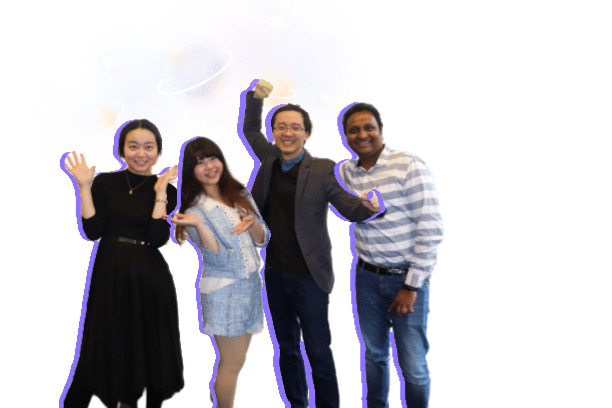
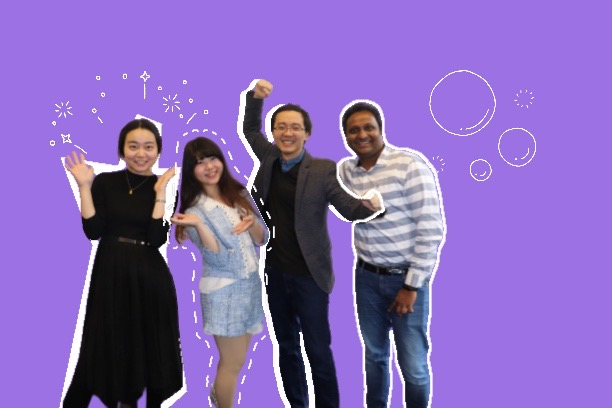
Update about page and style

diff --git a/assets/styles.css b/assets/styles.css
@@ -78,6 +78,8 @@ body {
   margin-top: 64px;
 }
 
+.margin-small-top {   margin-top: 22px; }
+
 .main-home {
   height: 100vh;
   display: flex;
@@ -324,7 +326,7 @@ p.kit span {
 }
 
 .section-title h3 {
-  color: #2f8dfa;
+  color: #9b71e3;
   font-size: 16px;
   text-transform: uppercase;
 }
@@ -338,7 +340,7 @@ p.kit span {
 }
 
 .section-title h5 span {
-  color: #2f8dfa;
+  color: #9b71e3;
   font-size: 28px;
   margin-right: 8px;
 }
@@ -1372,7 +1374,7 @@ select {
 
   .column.large-uncentered.opposite,
   .columns.large-uncentered.opposite {
-    float: right;
+    float: right
   }
 
   .large-push-0 {

diff --git a/about.html b/about.html
@@ -1,4 +1,4 @@
-P
+
 <html>
   <head>
     <meta charset="utf-8" />
@@ -31,7 +31,7 @@ P
         <div class="row">
           <div class="columns small-12 about-wrap">
             <div class="small-12 large-6 columns">
-              <img src="./assets/images/about01.png" alt="" />
+              <img src="./assets/images/about01.jpg" alt="" />
             </div>
             <div class="meet small-12 large-6 large-push-1 columns">
               <h1>Hi, nice to meet you!</h1>
